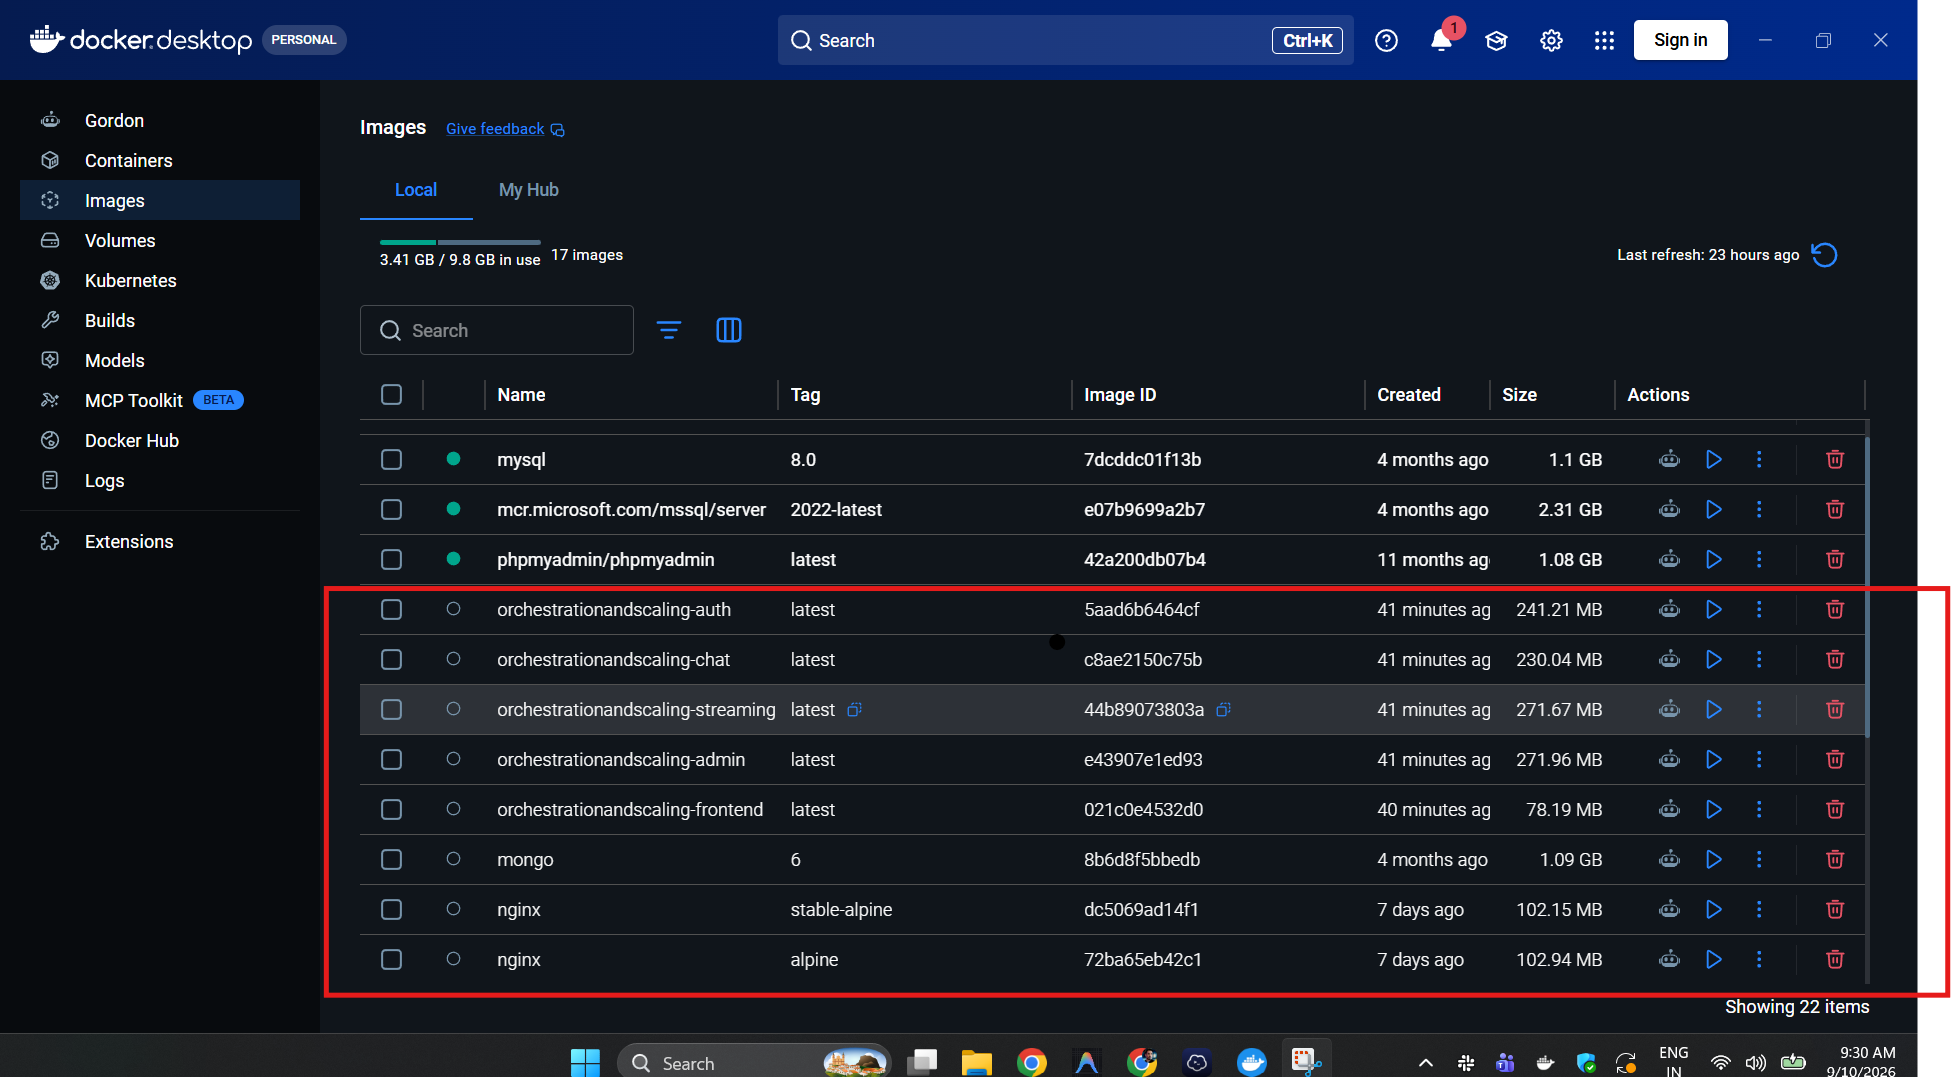
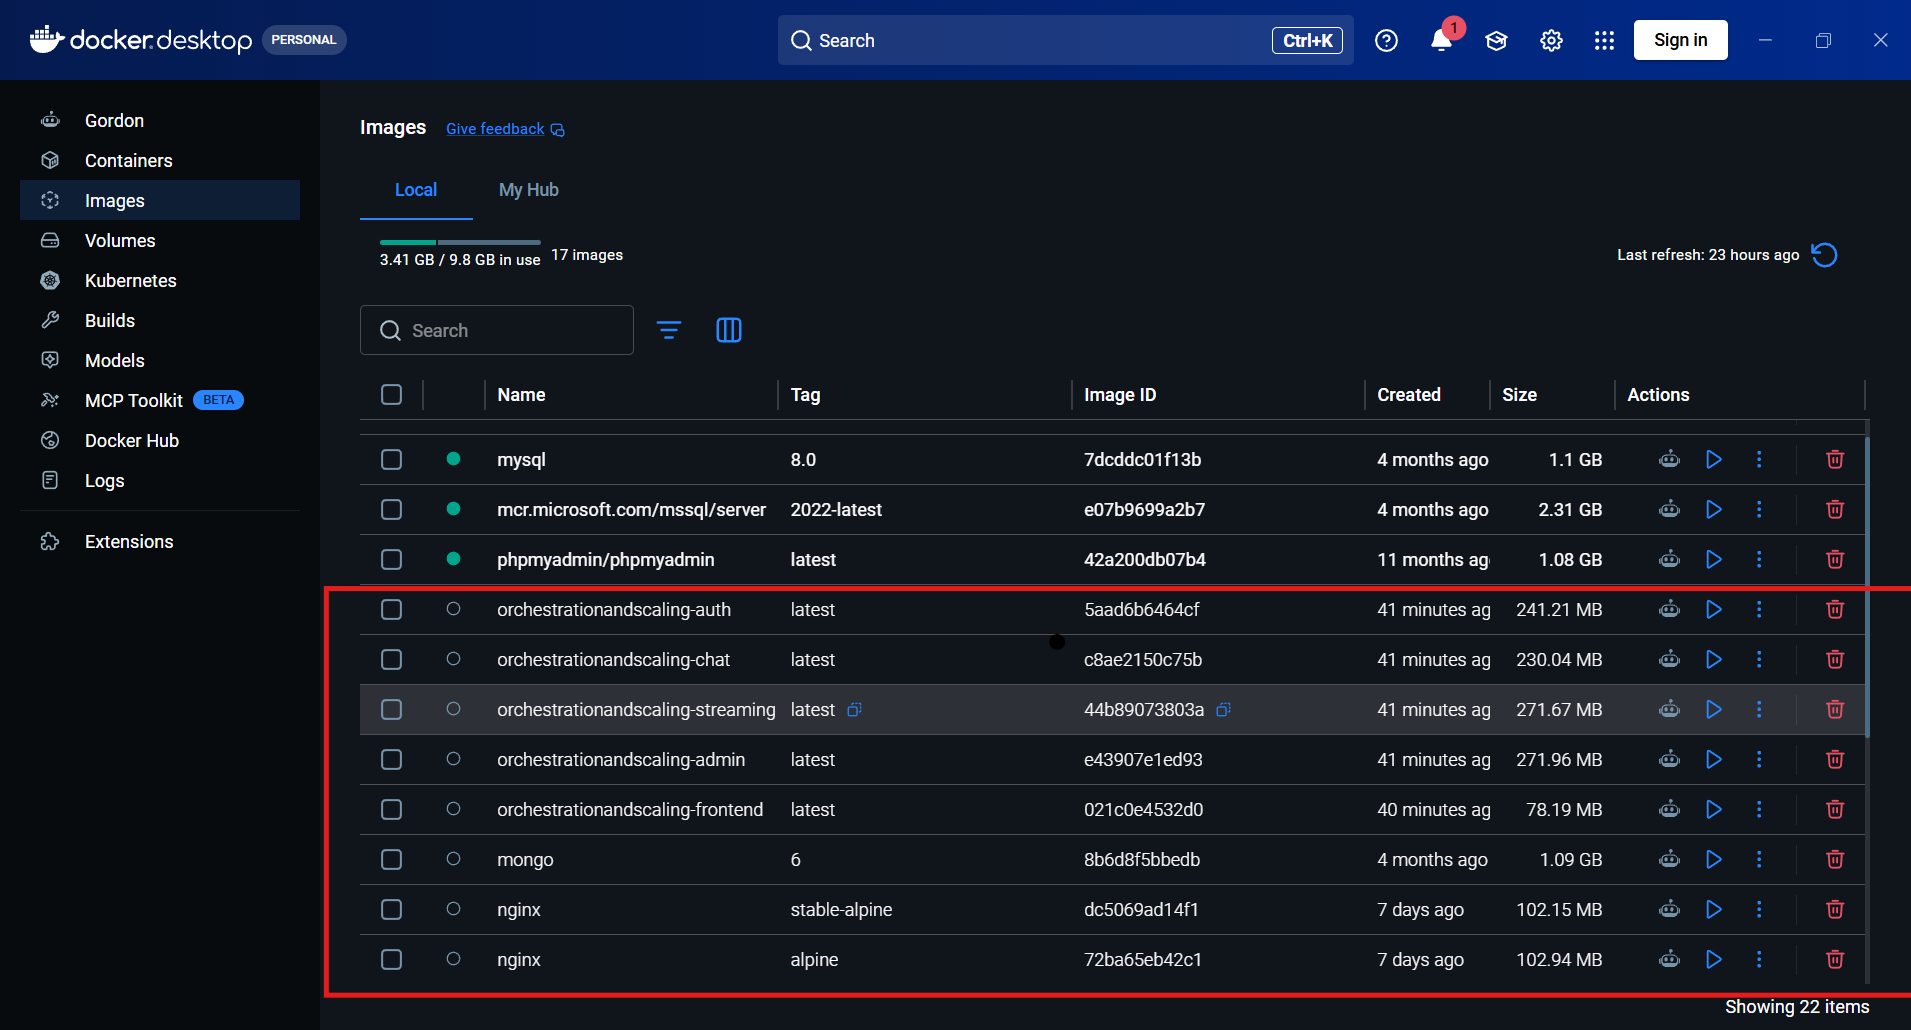
feat(infra): add S3 CORS policy, ECR setup, and Docker push automation scripts

Changed region(s): [[0.0, 0.0, 1.0, 1.0], [0.3396, 0.2796, 0.4014, 0.3417], [0.0, 0.4971, 0.0926, 0.5282]]

diff --git a/infra/README.md b/infra/README.md
@@ -1,0 +1,39 @@
+# Infrastructure & Cloud Provisioning Scripts
+
+This directory contains all declarative configuration policies and infrastructure automation scripts used to provision, configure, and maintain the AWS cloud resources for the **StreamingApp** project.
+
+## Directory Contents
+
+| File | Type | Purpose |
+| :--- | :--- | :--- |
+| **`s3-cors.json`** | JSON Policy | Cross-Origin Resource Sharing (CORS) policy enabling web browsers and backend services to stream and upload video chunks to Amazon S3. |
+| **`setup-s3-bucket.sh`** / **`.ps1`** | Automation Script | Provisions the Amazon S3 general-purpose media bucket in region `ap-south-1` and applies the CORS configuration. |
+| **`setup-ecr-repositories.sh`** / **`.ps1`** | Automation Script | Automates creation of the 5 dedicated private Amazon Elastic Container Registry (ECR) repositories with `scanOnPush=true` vulnerability scanning. |
+| **`build-and-push-ecr.sh`** / **`.ps1`** | Automation Script | Authenticates the local Docker client via `aws ecr get-login-password`, builds each microservice, tags them with semantic version (`v1.0.0`) and `latest`, and pushes all images to Amazon ECR. |
+
+## Quick Usage
+
+### PowerShell (Windows)
+```powershell
+# 1. Provision S3 Bucket with CORS
+.\infra\setup-s3-bucket.ps1
+
+# 2. Create ECR Repositories
+.\infra\setup-ecr-repositories.ps1
+
+# 3. Build & Push All Microservice Images
+.\infra\build-and-push-ecr.ps1 v1.0.0
+```
+
+### Bash (Linux / macOS / Jenkins Agent)
+```bash
+# 1. Provision S3 Bucket with CORS
+chmod +x infra/*.sh
+./infra/setup-s3-bucket.sh
+
+# 2. Create ECR Repositories
+./infra/setup-ecr-repositories.sh
+
+# 3. Build & Push All Microservice Images
+./infra/build-and-push-ecr.sh v1.0.0
+```

diff --git a/documentation.md b/documentation.md
@@ -367,15 +367,22 @@ I applied the following CORS policy:
 }
 ```
 
-Applied via AWS CLI:
+Applied via AWS CLI (using the policy file stored in `infra/s3-cors.json`):
 ```bash
 aws s3api put-bucket-cors \
   --bucket streamingapp-media-675789571925-ap-south-1 \
-  --cors-configuration file://s3-cors.json
+  --cors-configuration file://infra/s3-cors.json
 ```
 
 ![Figure 3.2: Amazon S3 Bucket Created in AWS Console](screenshots/05-aws-s3-bucket-created.png)
 *Figure 3.2: Verification of the created S3 general-purpose bucket `streamingapp-media-675789571925-ap-south-1` in the AWS Management Console.*
+
+> **DevOps Artifacts in `infra/`:**  
+> All configuration files and provisioning scripts are permanently version-controlled in the [infra/](file:///d:/Study/HeroVired/assignments/Orchestration%20and%20Scaling/infra) directory:
+> - `infra/s3-cors.json`: Declarative CORS specification applied to the S3 bucket.
+> - `infra/setup-s3-bucket.ps1` / `.sh`: Repeatable automation script to create the S3 bucket and apply CORS.
+> - `infra/setup-ecr-repositories.ps1` / `.sh`: Repeatable automation script to provision all 5 private ECR repositories.
+> - `infra/build-and-push-ecr.ps1` / `.sh`: Repeatable automation script to authenticate Docker, tag, and push all microservice images.
 
 ---
 
